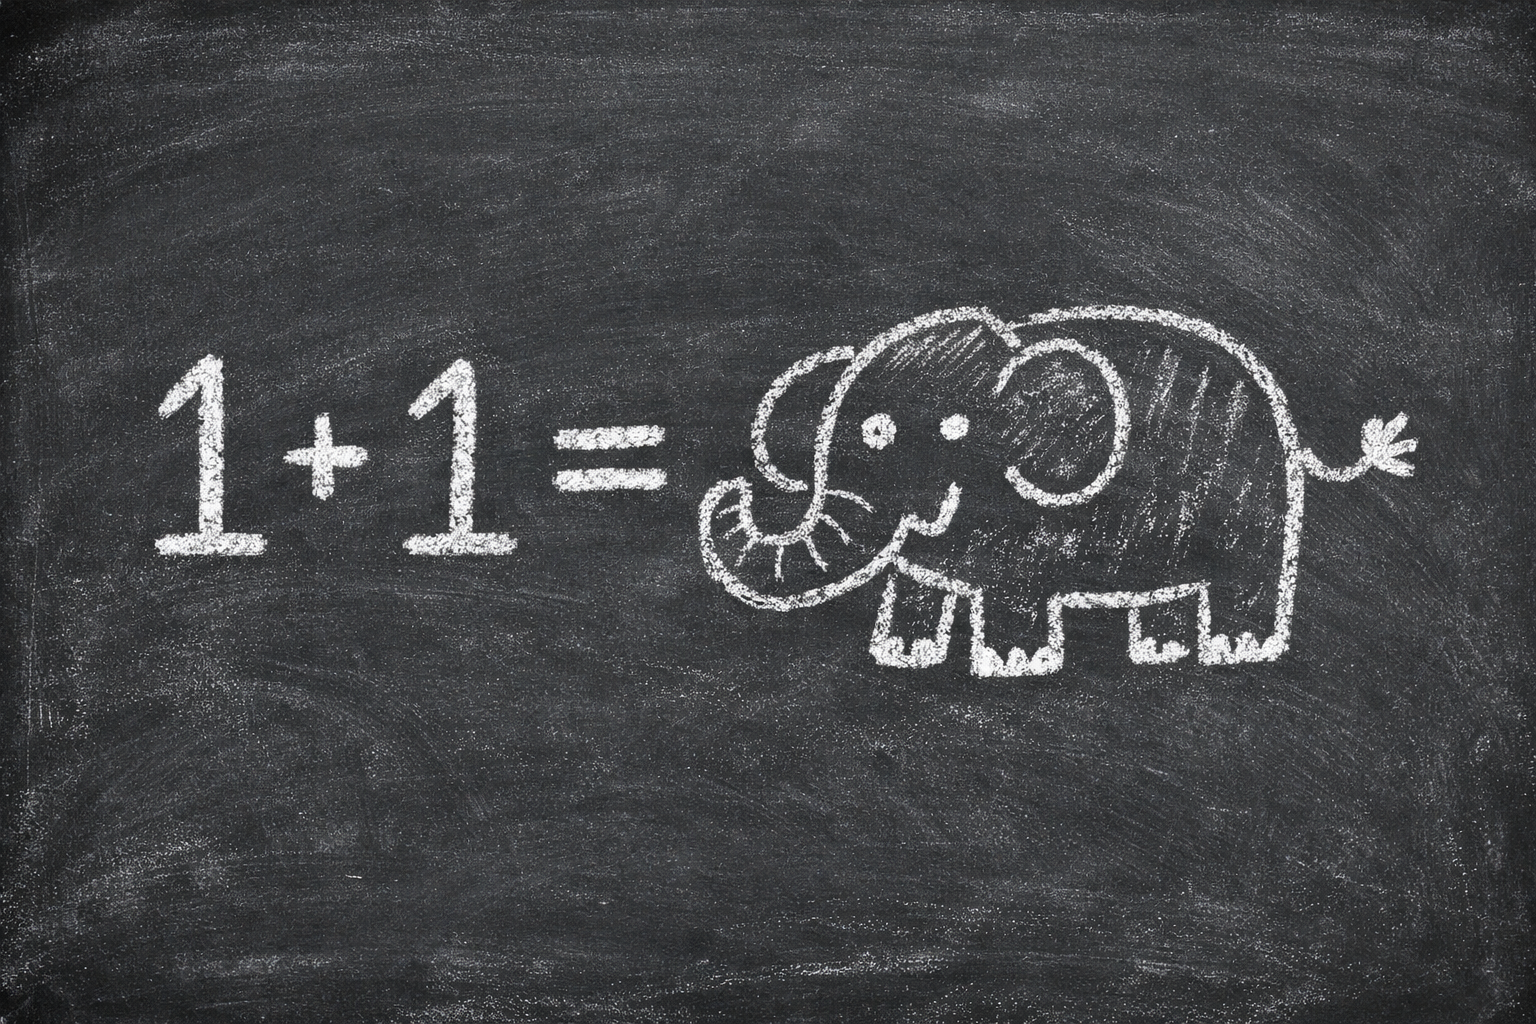
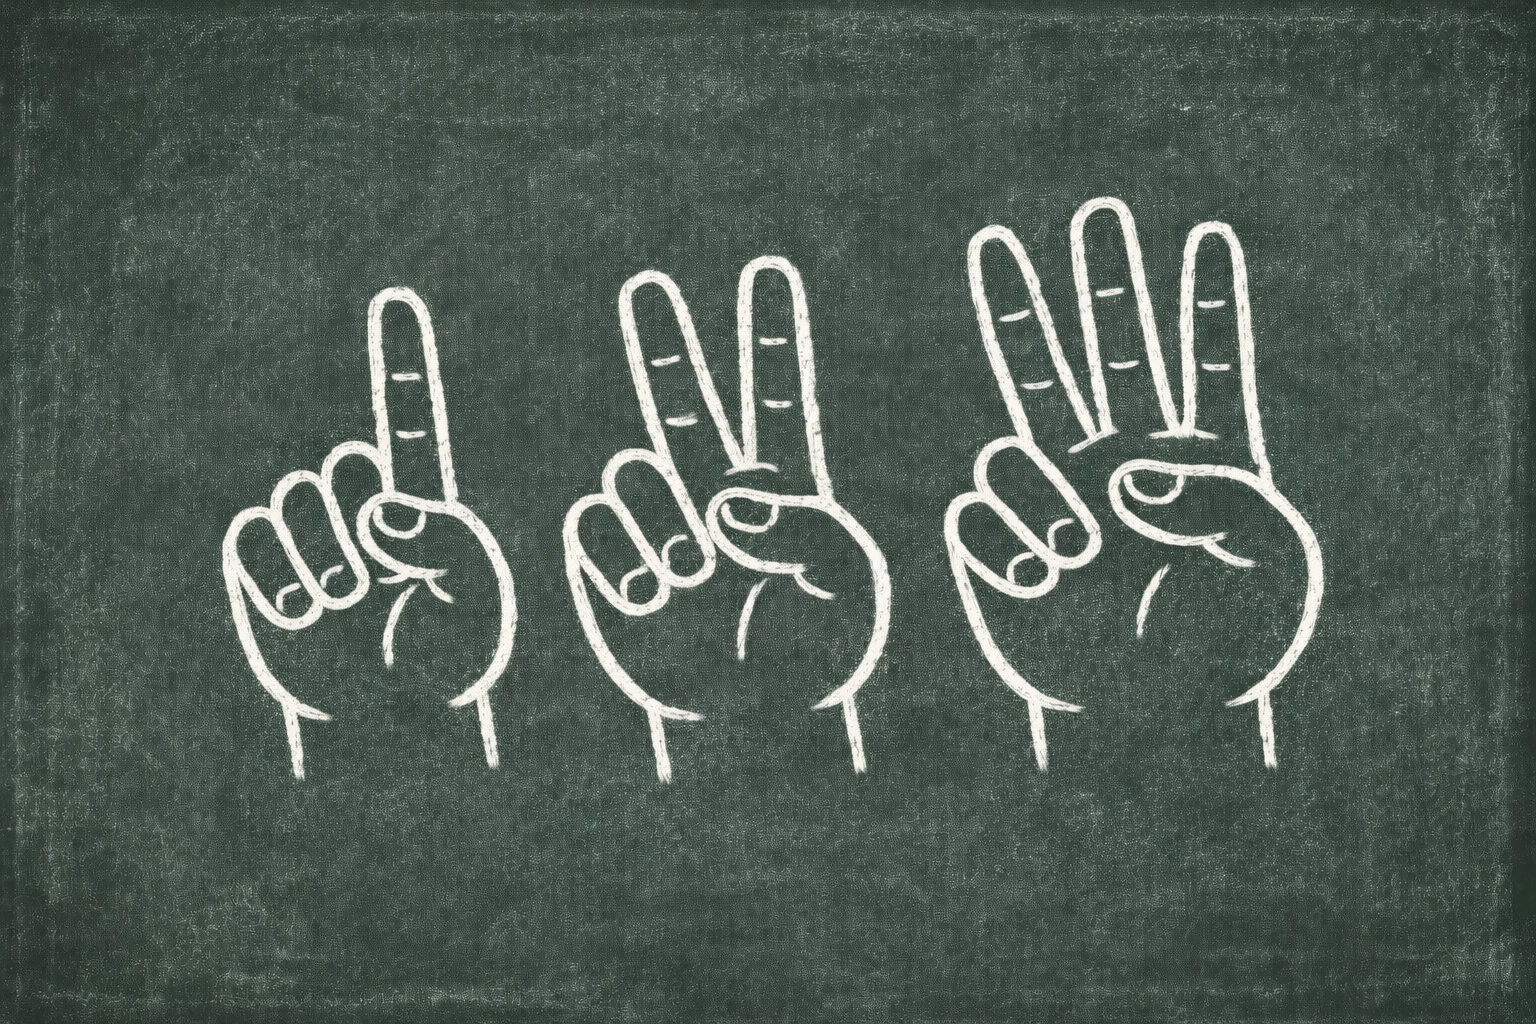
Fix blog publishing issues
- Fix archive sort order: Use datetime parsing instead of string comparison
- Fix image naming collision: Add slug prefix to image filenames
- Add internal link support: Handle headingId/bookmarkId and generate anchor IDs
- Add blog-publisher skill documentation
- Update project instructions with documentation references

🤖 Generated with [Claude Code](https://claude.com/claude-code)

diff --git a/words/index.html b/words/index.html
@@ -35,6 +35,11 @@
 
         <div class="post-listing">
             <article class="post-preview">
+                <h3><a href="/words/ai-coding-lexicon/">AI-coding lexicon</a></h3>
+                <p class="post-meta">Published on: 09/01/2026. Filed under: ai</p>
+                <p class="post-excerpt">Every discipline creates their own language by necessity, a lingua franca for describing new concepts, methodologies and ways of working. To learn a subject, it helps if you understand it’s language.</p>
+            </article>
+            <article class="post-preview">
                 <h3><a href="/words/ai-gold-rush/">The AI gold rush</a></h3>
                 <p class="post-meta">Published on: 05/01/2026. Filed under: ai</p>
                 <p class="post-excerpt">My second blog post. Lorem ipsum dolor sit amet, consectetur adipiscing elit, sed do eiusmod tempor incididunt ut labore et dolore magna aliqua. Ut enim ad minim veniam.</p>
@@ -43,11 +48,6 @@
                 <h3><a href="/words/hello-world/">Hello world</a></h3>
                 <p class="post-meta">Published on: 12/11/2025. Filed under: general</p>
                 <p class="post-excerpt">Hello and welcome (back) to my (new) blog. I feel an explanation is probably necessary.</p>
-            </article>
-            <article class="post-preview">
-                <h3><a href="/words/ai-coding-lexicon/">AI-coding lexicon</a></h3>
-                <p class="post-meta">Published on: 09/01/2026. Filed under: ai</p>
-                <p class="post-excerpt">Every discipline creates their own language by necessity, a lingua franca for describing new concepts, methodologies and ways of working. To learn a subject, it helps if you understand it’s language.</p>
             </article>
         </div>
     </main>

diff --git a/publish.py b/publish.py
@@ -29,6 +29,13 @@ SCOPES = [
     'https://www.googleapis.com/auth/documents.readonly'
 ]
 
+def slugify(text):
+    """Convert text to anchor-safe slug"""
+    text = text.lower()
+    text = re.sub(r'\s+', '-', text)  # spaces to hyphens
+    text = re.sub(r'[^0-9a-z-]', '', text)  # remove special chars
+    return text
+
 # Blog folder path in Google Drive
 BLOG_FOLDER_PATH = "09 Lab/Taken"
 
@@ -377,8 +384,8 @@ def convert_to_html(document, metadata, content_start_index=0, content_type='wor
                                     if url_ext in ['jpg', 'jpeg', 'png', 'gif', 'webp']:
                                         ext = f'.{url_ext}'
 
-                                # Generate local image path
-                                image_filename = f'image-{image_counter}{ext}'
+                                # Generate local image path with slug prefix
+                                image_filename = f'{slug}-image-{image_counter}{ext}'
                                 local_image_path = f'lib/img/{image_filename}'
                                 web_image_path = f'/lib/img/{image_filename}'
 
@@ -410,8 +417,26 @@ def convert_to_html(document, metadata, content_start_index=0, content_type='wor
 
                         # Handle links
                         if 'link' in text_style:
-                            url = text_style['link'].get('url', '')
-                            formatted_text = f'<a href="{url}">{formatted_text}</a>'
+                            link = text_style['link']
+
+                            # External URL
+                            if 'url' in link and link['url']:
+                                url = link['url']
+                                formatted_text = f'<a href="{url}">{formatted_text}</a>'
+
+                            # Internal link - try various formats
+                            elif 'headingId' in link and link['headingId']:
+                                anchor_id = link['headingId']
+                                formatted_text = f'<a href="#{anchor_id}">{formatted_text}</a>'
+                            elif 'bookmarkId' in link and link['bookmarkId']:
+                                anchor_id = link['bookmarkId']
+                                formatted_text = f'<a href="#{anchor_id}">{formatted_text}</a>'
+                            elif 'heading' in link and link['heading']:
+                                anchor_id = link['heading'].get('id', '')
+                                formatted_text = f'<a href="#{anchor_id}">{formatted_text}</a>'
+                            elif 'bookmark' in link and link['bookmark']:
+                                anchor_id = link['bookmark'].get('id', '')
+                                formatted_text = f'<a href="#{anchor_id}">{formatted_text}</a>'
 
                         # Handle bold
                         if text_style.get('bold'):
@@ -425,7 +450,12 @@ def convert_to_html(document, metadata, content_start_index=0, content_type='wor
 
             # Add text paragraph if it has content
             if html_content.strip():
-                html_parts.append(f'    <{tag}>{html_content.rstrip()}</{tag}>')
+                # Generate anchor IDs for headings (h2, h3, h4)
+                if tag in ['h2', 'h3', 'h4']:
+                    anchor_id = slugify(html_content.strip())
+                    html_parts.append(f'    <{tag} id="{anchor_id}">{html_content.rstrip()}</{tag}>')
+                else:
+                    html_parts.append(f'    <{tag}>{html_content.rstrip()}</{tag}>')
 
             # Inject metadata after first h1 (title)
             if not metadata_injected and tag == 'h1' and content_type in ['words', 'projects']:

diff --git a/generate_archive.py b/generate_archive.py
@@ -160,7 +160,18 @@ def generate_archive_html(posts):
     """Generate the archive page HTML"""
 
     # Sort by date (newest first)
-    posts_sorted = sorted(posts, key=lambda p: p['date'], reverse=True)
+    # Handle both ISO format (YYYY-MM-DD) and display format (DD/MM/YYYY)
+    def parse_date(date_str):
+        if not date_str:
+            return datetime.min
+        try:
+            # Try ISO format first
+            return datetime.strptime(date_str, '%Y-%m-%d')
+        except ValueError:
+            # Try display format
+            return datetime.strptime(date_str, '%d/%m/%Y')
+
+    posts_sorted = sorted(posts, key=lambda p: parse_date(p['date']), reverse=True)
 
     html_parts = []
 

diff --git a/.claude/project_instructions.md b/.claude/project_instructions.md
@@ -41,6 +41,17 @@ problem → plan → review plan → build → test localhost → WAIT FOR APPRO
 - **Hosting**: Netlify (auto-deploys on push to main)
 - **Domain**: takenbyninjas.com
 
+## Documentation Reference
+
+**Architecture & Technical Design:**
+- `/docs/architecture.md` - Complete technical architecture, content flow, file structure
+- `/docs/blog-prd.md` - Product requirements, development phases, feature specs
+
+**When to read these:**
+- Before making architectural changes
+- When exploring "how does X work?"
+- When planning new features
+
 ## Common Commands
 
 ```bash
